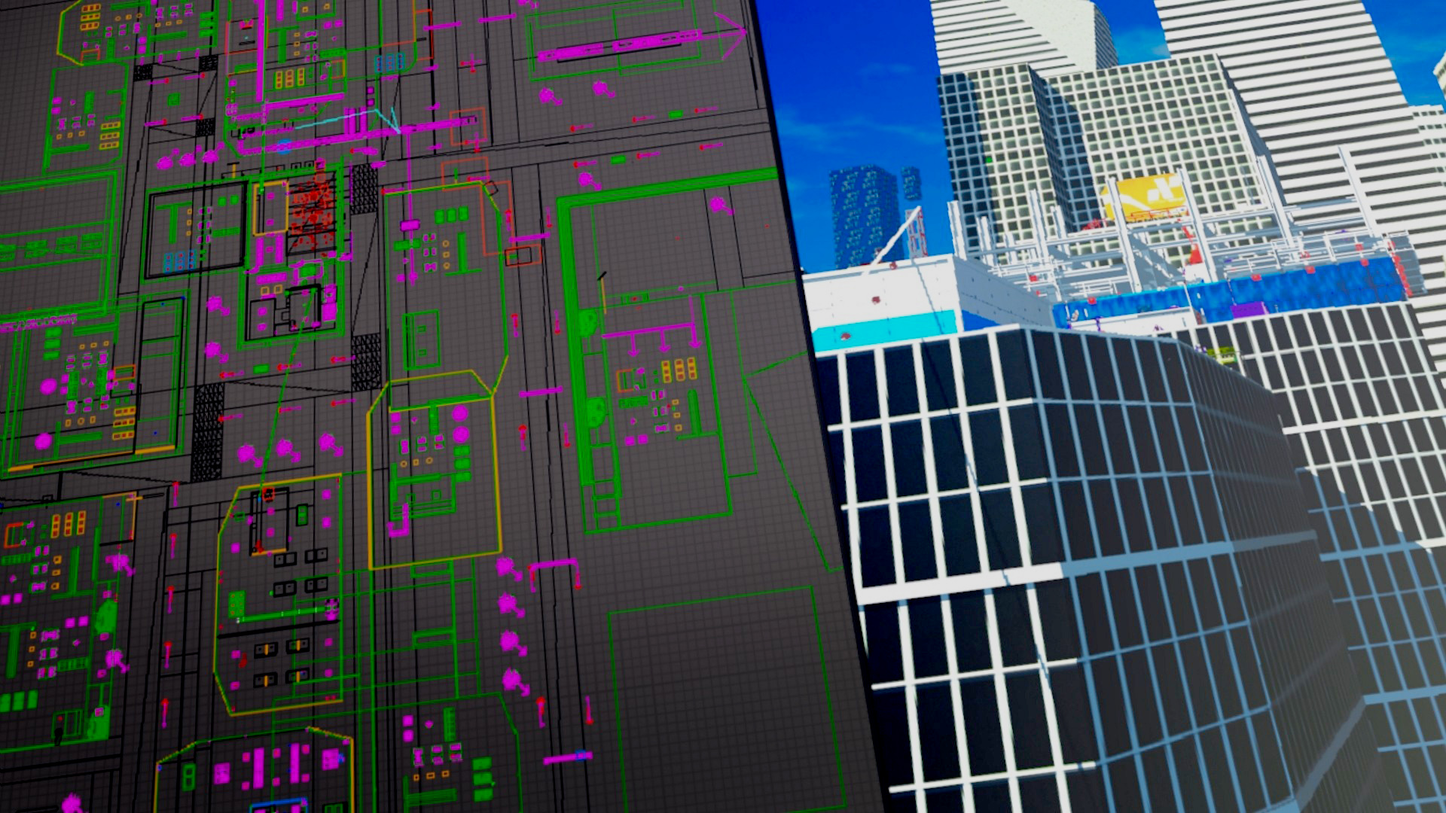
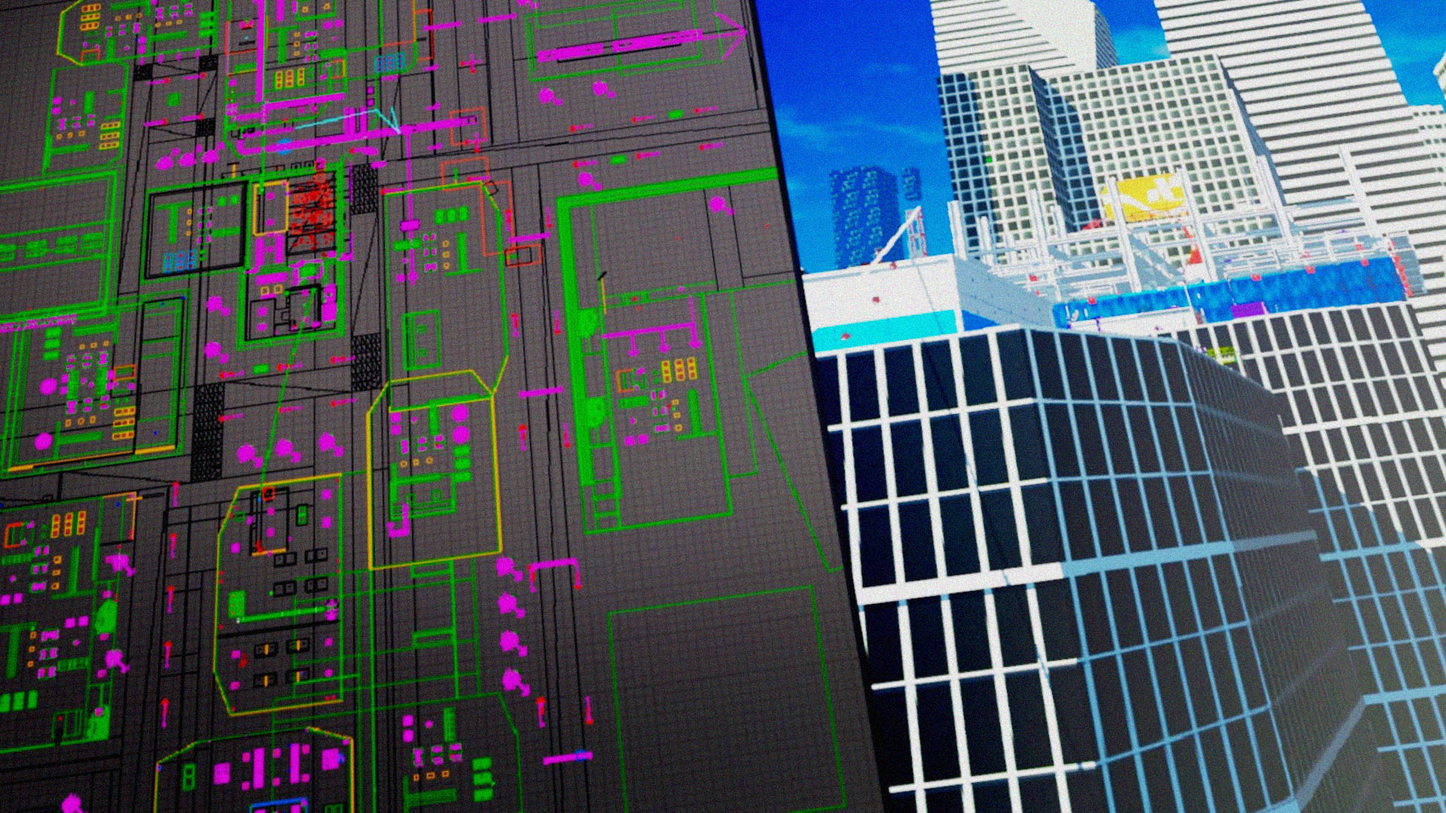
Home: Edited leveldesign bg image + vignette

diff --git a/src/containers/Home/Home.tsx b/src/containers/Home/Home.tsx
@@ -81,13 +81,15 @@ const Home: FunctionComponent = (): JSX.Element =>
             <Parallax style={{boxShadow: '0 0 5px 6px rgba(60, 60, 60, .3)'}} 
             bgImage={require(`../../assets/images/index/leveldesign.jpg`)} 
             bgImageAlt="index" strength={-200} blur={0}>
-                <Spacing height='200px' />
-                <Typography style={{ userSelect: 'none' }} align="center" variant="h1" component="h1">
-                    <SplitText initialPose="exit" pose="enter" charPoses={charPoses}>
-                        Level Design
-                    </SplitText>
-                </Typography>
-                <Spacing height='200px' />
+                <div style={{ background: 'radial-gradient(transparent, black)' }}>
+                    <Spacing height='200px' />
+                    <Typography style={{ userSelect: 'none' }} align="center" variant="h1" component="h1">
+                        <SplitText initialPose="exit" pose="enter" charPoses={charPoses}>
+                            Level Design
+                        </SplitText>
+                    </Typography>
+                    <Spacing height='200px' />
+                </div>
             </Parallax>
             <Levels />
 
